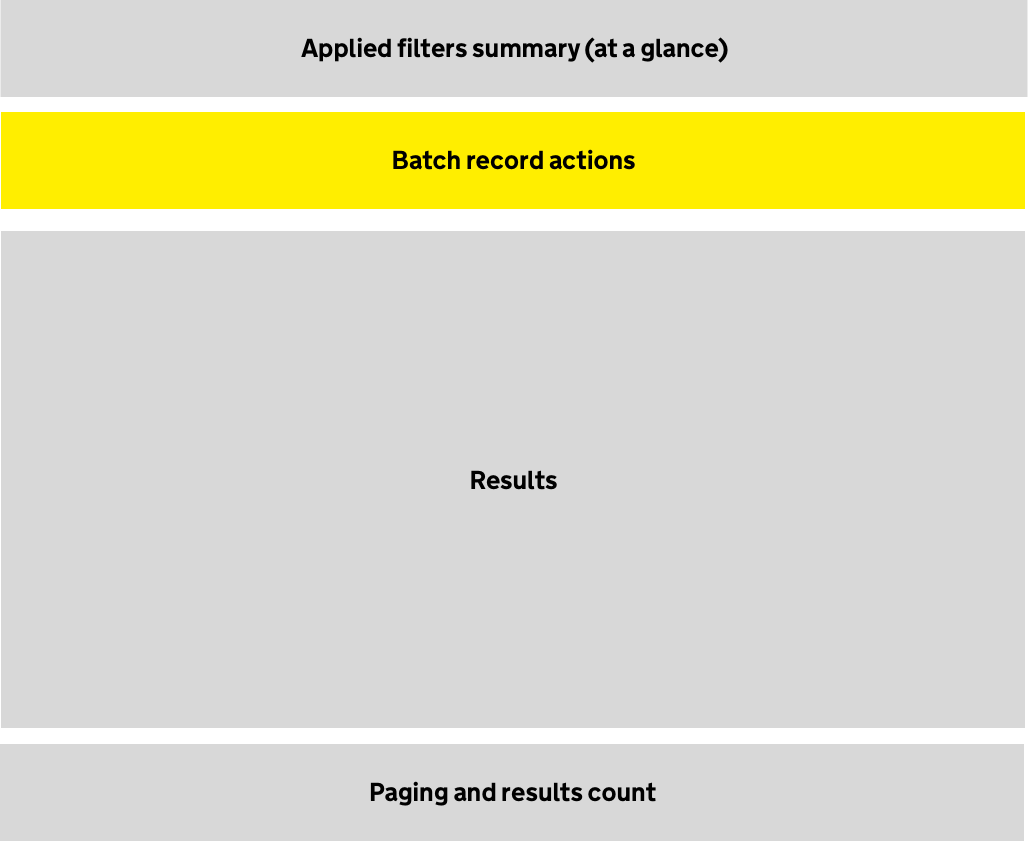
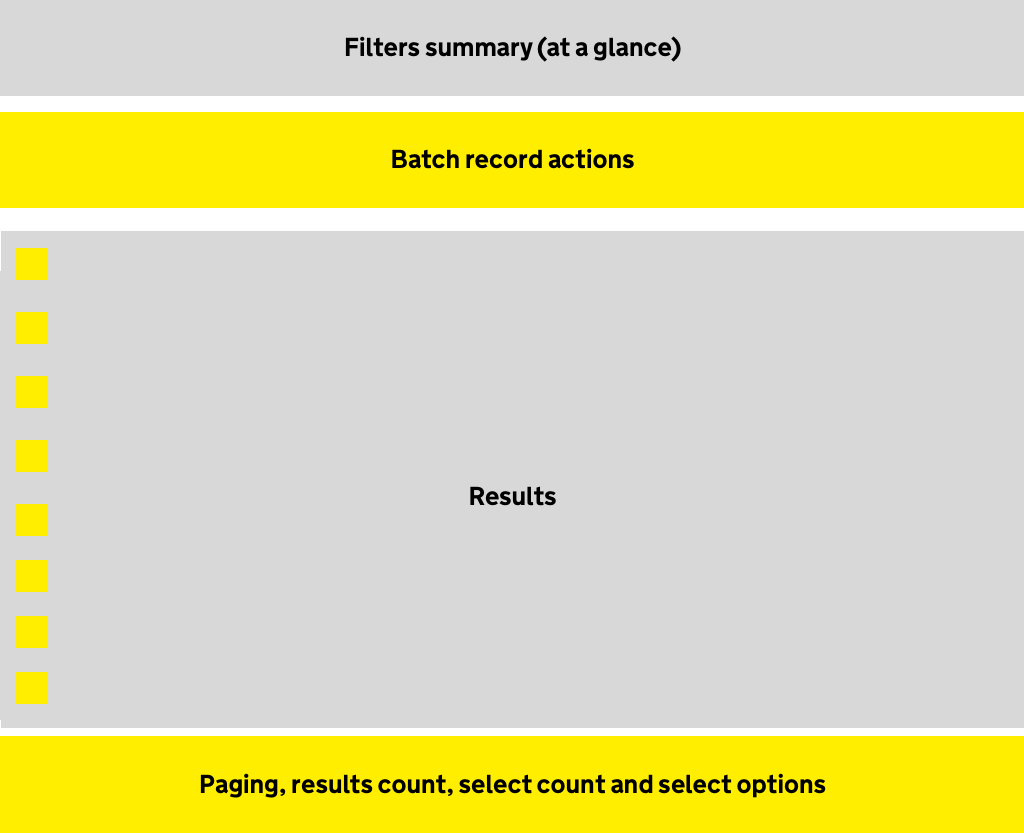
way

diff --git a/app/views/wayTables.html b/app/views/wayTables.html
@@ -100,14 +100,19 @@
 <div class="delta-full-screen detla-center delta-text-center" id="tableFiltersOpen">
   <h3 class="govuk-heading-m">Results table - filters open</h3>
   <img src="/public/images/tableResultsFiltersOpen.png" alt="Filters open" class="delta-image-responsive delta-reading-width govuk-!-static-margin-bottom-6">
-  <p class="delta-reading-width"><small>Results pushed right (overflow hidden). Applied filter summary should update when apply button clicked. Filter panel should remain open until closed.</small></p>
+  <p class="delta-reading-width"><small>Results pushed right (overflow hidden). Filters summary should update when apply button clicked. Filter panel should remain open until closed.</small></p>
+</div>
+
+<div class="delta-full-screen detla-center delta-text-center" id="tableSelect">
+  <h3 class="govuk-heading-m">Results table - select</h3>
+  <img src="/public/images/tableResultsSelect.png" alt="Select" class="delta-image-responsive delta-reading-width govuk-!-static-margin-bottom-6">
+  <p class="delta-reading-width"><small>Selected result count and selection options.</small></p>
 </div>
 
 <div class="delta-full-screen detla-center delta-text-center" id="tableBatchActions">
   <h3 class="govuk-heading-m">Results table - batch actions</h3>
   <img src="/public/images/tableResultsBatchActions.png" alt="Batch actions for selected results" class="delta-image-responsive delta-reading-width govuk-!-static-margin-bottom-6">
-  <p class="delta-reading-width"><small>Lorem ipsum dolor sit amet, consectetur adipiscing elit, sed do eiusmod tempor incididunt ut labore et dolore magna aliqua. Ut enim ad minim veniam, quis nostrud exercitation ullamco laboris nisi ut aliquip ex ea commodo consequat.</small></p>
-  
+  <p class="delta-reading-width"><small>If result rows have checkboxes the user should be able to perform actions on the selected batch. These options should be displayed about the results. Initial stage should be disabled.</small></p>
 </div>
 
 
